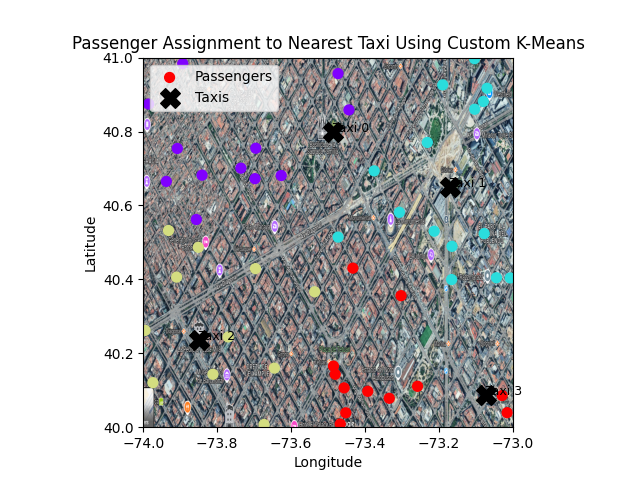
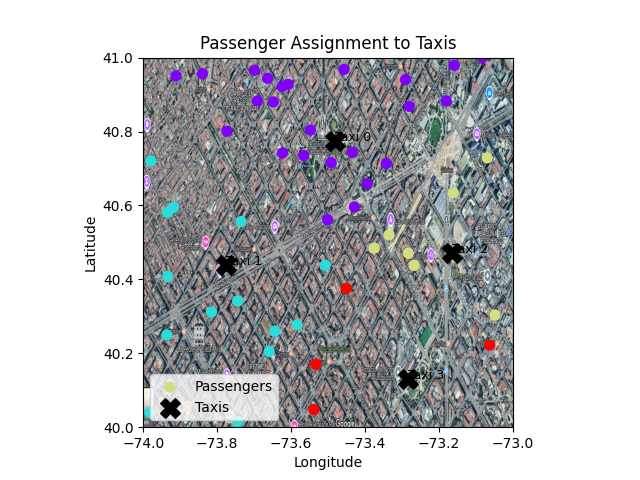
easier kmeans

diff --git a/app.py b/app.py
@@ -9,111 +9,79 @@ import matplotlib.image as image
 
 app = Flask(__name__, template_folder='template', static_folder='assets')
 
-# Lists to hold coordinates
-CorLat = []
-CorLon = []
-taxis = []
+# Stores for taxi and passenger coordinates
+taxi_locations = []
 
 @app.route('/assets/<path:filename>')
 def serve_static(filename):
     return send_from_directory('assets', filename)
 
 @app.route('/')
-def helloworld():
+def home():
     return render_template('index.html')
 
-def generate_passenger_locations(num_passengers):
-    passengers = []
-    for _ in range(num_passengers):
-        lat = random.uniform(40.0, 41.0)  # Adjust for your needs
-        lon = random.uniform(-74.0, -73.0)  # Adjust for your needs
-        passengers.append([lat, lon])
-    return np.array(passengers)
+# Generate random passenger locations
+def generate_passenger_locations(num):
+    return np.array([[random.uniform(40.0, 41.0), random.uniform(-74.0, -73.0)] for _ in range(num)])
 
-def kmeans_custom(data, initial_centroids, max_iters=100, tolerance=1e-4):
-    centroids = np.array(initial_centroids)
-    num_samples = data.shape[0]
-    k = centroids.shape[0]
-    labels = np.zeros(num_samples)
+# Simplified K-Means implementation (without tol and max_iters)
+def kmeans(data, centroids):
+    # Assign each point to the nearest centroid
+    distances = np.linalg.norm(data[:, None] - centroids, axis=2)
+    labels = np.argmin(distances, axis=1)
 
-    for _ in range(max_iters):
-        # Step 1: Assign clusters
-        for i in range(num_samples):
-            distances = np.linalg.norm(data[i] - centroids, axis=1)
-            labels[i] = np.argmin(distances)
+    # Recompute centroids
+    new_centroids = np.array([data[labels == i].mean(axis=0) for i in range(len(centroids))])
 
-        # Step 2: Update centroids
-        new_centroids = np.array([data[labels == j].mean(axis=0) for j in range(k)])
-        
-        # Check for convergence
-        if np.all(np.abs(new_centroids - centroids) < tolerance):
-            break
-        
-        centroids = new_centroids
-
-    return labels, centroids
+    return labels, new_centroids
 
 @app.route('/submit_coordinates', methods=['POST'])
 def submit_coordinates():
     data = request.get_json()
     latitude = data['latitude']
     longitude = data['longitude']
-    clickcount = data['clickCount']
-
-    if clickcount > len(taxis):
-        taxis.append([latitude, longitude])
-        CorLat.append(latitude)
-        CorLon.append(longitude)
-        print(f"Received coordinates - Latitude: {latitude}, Longitude: {longitude}, Click Count: {clickcount}")
-        return jsonify({"message": "Coordinates received successfully!"})
-    else:
-        return jsonify({"message": "Coordinate submission error."}), 400
+    
+    taxi_locations.append([latitude, longitude])
+    return jsonify({"message": "Coordinates received!"})
 
 @app.route('/start_function')
 def start_function():
-    num_passengers = 50
-    passenger_locations = generate_passenger_locations(num_passengers)
-    taxi_locations = np.array(taxis)
+    # Generate random passenger locations and use current taxi locations
+    passengers = generate_passenger_locations(50)
+    taxis = np.array(taxi_locations)
 
-    if len(taxi_locations) == 0:
+    if not taxis.any():
         return jsonify({"message": "No taxis available."}), 400
 
-    # Run custom K-Means
-    labels, centroids = kmeans_custom(passenger_locations, taxi_locations)
+    # Perform K-Means clustering to assign passengers to taxis
+    labels, _ = kmeans(passengers, taxis)
 
-    # Create the plot
+    # Create plot
     plt.figure()
-    im = image.imread('assets/barca_map.png')  # Ensure the image path is correct
-    plt.imshow(im, extent=[-74.0, -73.0, 40.0, 41.0])  # Adjust extent as needed
-    plt.scatter(passenger_locations[:, 1], passenger_locations[:, 0], c=labels, s=50, cmap='rainbow', label='Passengers', zorder=2)
-    plt.scatter(taxi_locations[:, 1], taxi_locations[:, 0], s=200, c='black', marker='X', label='Taxis', zorder=2)
+    map_image = image.imread('assets/barca_map.png')
+    plt.imshow(map_image, extent=[-74.0, -73.0, 40.0, 41.0])
+    plt.scatter(passengers[:, 1], passengers[:, 0], c=labels, s=50, cmap='rainbow', label='Passengers')
+    plt.scatter(taxis[:, 1], taxis[:, 0], s=200, c='black', marker='X', label='Taxis')
 
-    for i, (x, y) in enumerate(taxi_locations):
+    for i, (x, y) in enumerate(taxis):
         plt.text(y, x, f'Taxi {i}', fontsize=9)
 
-    plt.title('Passenger Assignment to Nearest Taxi Using Custom K-Means')
+    plt.title('Passenger Assignment to Taxis')
     plt.xlabel('Longitude')
     plt.ylabel('Latitude')
     plt.legend()
 
-    # Save the figure
     plot_path = os.path.join(app.static_folder, 'assignment_plot.png')
     plt.savefig(plot_path)
     plt.close()
 
-    # Prepare assignments
-    assignments = {}
-    for i in range(len(taxi_locations)):
-        passenger_indices = np.where(labels == i)[0]
-        assignments[i] = passenger_indices.tolist()  # Convert to a regular list
-
-    # Convert taxi locations to a regular list
-    taxi_locations_list = taxi_locations.tolist()
+    # Prepare response with assignments
+    assignments = {i: np.where(labels == i)[0].tolist() for i in range(len(taxis))}
 
     return jsonify({
         "message": "Function executed!",
         "assignments": assignments,
-        "taxi_locations": taxi_locations_list,
+        "taxi_locations": taxis.tolist(),
         "plot_url": "assignment_plot.png"
     })
 
